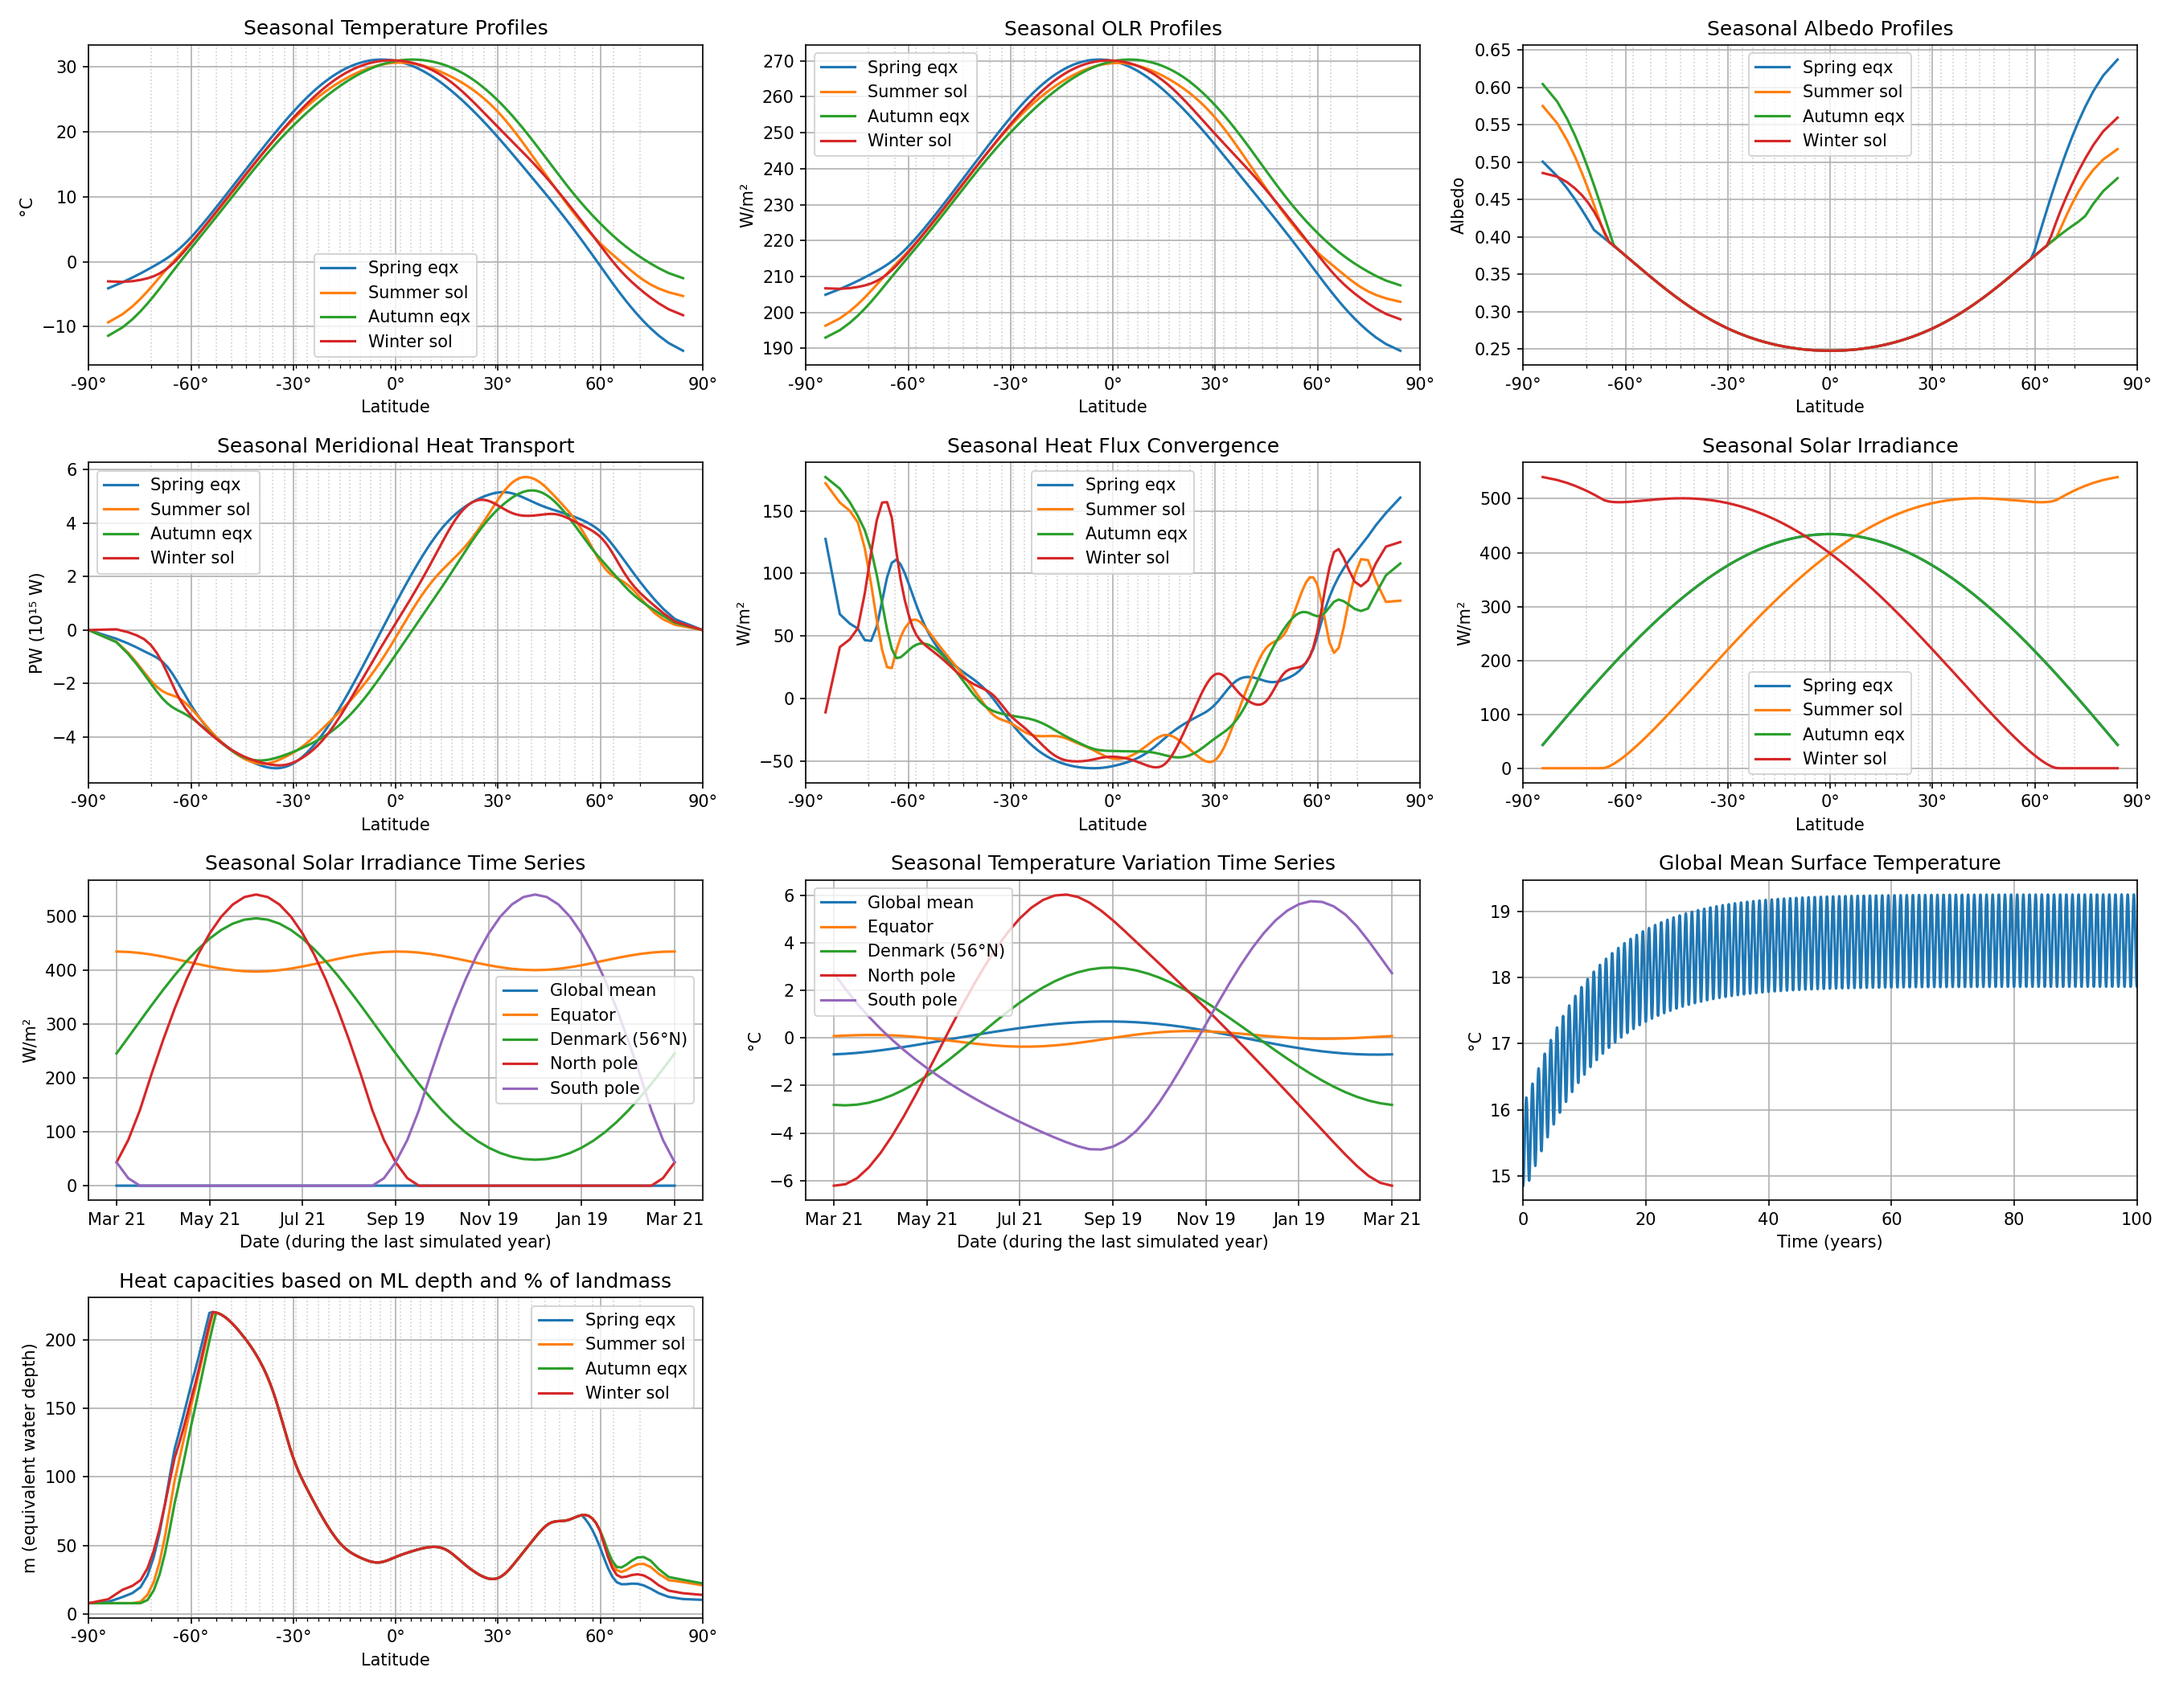
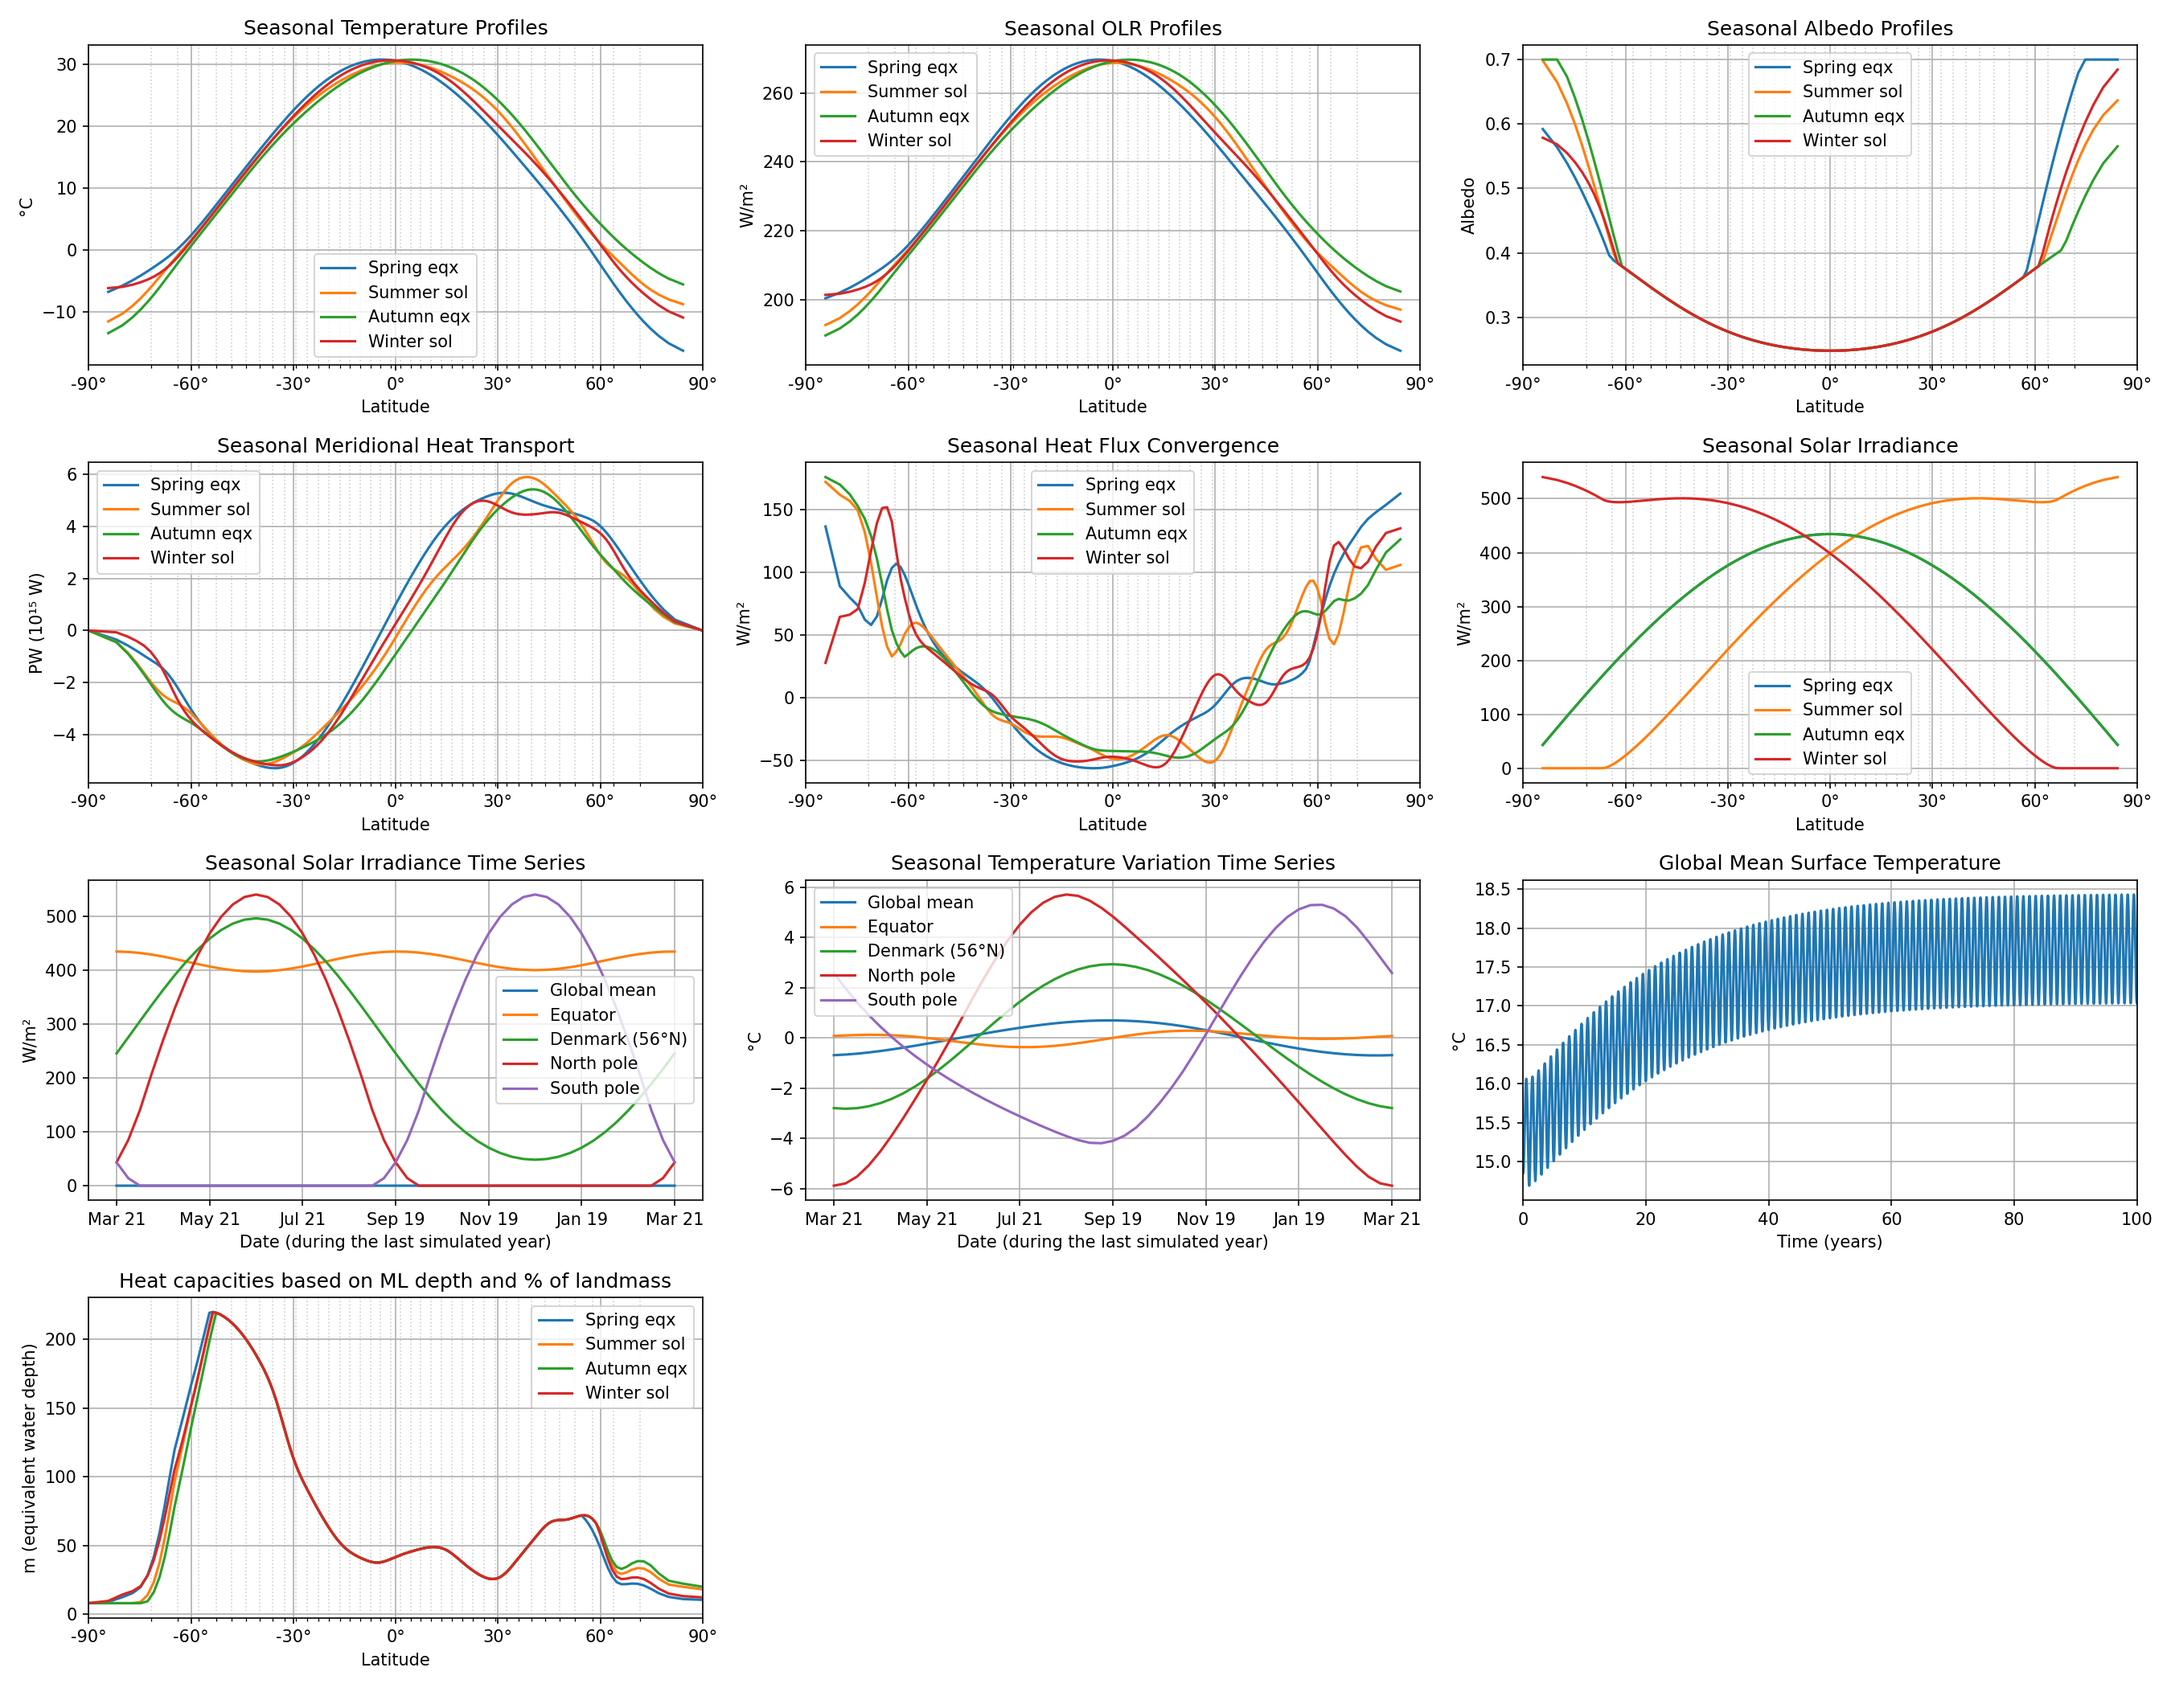
Made possible to have varying diffusion

diff --git a/Programfiler/physics.py b/Programfiler/physics.py
@@ -83,9 +83,9 @@ def albedo_from_T(T, x, k1):
     return np.minimum(alpha, 0.7)
 
 @Input
-def diffusion_from_T(T, D0, k2):
-    # T er i default mode T.mean()
-    return D0 * max(0.5, 1.0 + k2 * (T - T00))
+def diffusion_from_T(T, D0, k2, mean=True):
+    T = T.mean() if mean else T
+    return D0 * np.maximum(0.5, 1.0 + k2 * (T - T00))
 
 @Input
 def deltaT_of_Ts(Ts, k3):
@@ -225,6 +225,7 @@ def build_diffusion_tridiag(x, D):
 
     # half-point weights (length nx-1)
     x_half = 0.5 * (x[:-1] + x[1:])
+    D = 0.5 * (D[:-1] + D[1:]) if isinstance(D, np.ndarray) else D
     w_half = D * (1.0 - x_half**2) # diffusivity at cell borders
     
     # interior contributions
@@ -248,6 +249,7 @@ def meridional_transport_PW(T, x, D):
     # dTdx = np.gradient(T, x)
     dTdx = np.r_[0, (T[1:] - T[:-1]) / (x[1] - x[0]), 0]
     x_borders = np.r_[-1, (x[1:] + x[:-1]) / 2, 1]
+    D = np.r_[D[0], (D[1:] + D[:-1]) / 2, D[-1]] if isinstance(D, np.ndarray) else D # Not entirely correct but ok approximation
     flux = - D * (1.0 - x_borders**2) * dTdx                    # W/m² (per-area heat flux)
     MHTrans = 2.0 * np.pi * R_EARTH**2 * flux                 # W (zonal integral around latitude circle)
     return np.arcsin(x_borders) / np.pi * 180, MHTrans / 1e15                            # PW

diff --git a/Programfiler/outputs.py b/Programfiler/outputs.py
@@ -188,7 +188,7 @@ class DefaultOutput(OutPut):
         alpha = funcs['albedo_from_T'](T, x, k1=params['k1'], model=model, i=i)
         dTloc = funcs['deltaT_of_Ts'](T, k3=params['k3'], model=model, i=i)
         olr = phys.SIGMA * (T - dTloc)**4
-        D = funcs["diffusion_from_T"](T.mean(), params['D0'], params['k2'], model=model, i=i)
+        D = funcs["diffusion_from_T"](T, params['D0'], params['k2'], model=model, i=i)
         aL, bL, cL = funcs['build_diffusion_tridiag'](x, D)
         conv = funcs['apply_L_to_T'](aL, bL, cL, T)     # W/m² (convergence)
         MHTrans_PW = funcs['meridional_transport_PW'](T, x, D, model=model, i=i) # PW = 10^15 W

diff --git a/Programfiler/model.py b/Programfiler/model.py
@@ -54,7 +54,7 @@ class ClimateModel:
         rad_term = absorbed - olr + params['F'] * (i >= self.ctrl_nsteps) # Only apply forcing after control period
 
         # Diffusivity depends on global mean temperature
-        D = funcs["diffusion_from_T"](T.mean(), params['D0'], params['k2'], model=self, i=i)
+        D = funcs["diffusion_from_T"](T, params['D0'], params['k2'], model=self, i=i)
 
         # Build L and do Crank–Nicolson step
         aL, bL, cL = funcs['build_diffusion_tridiag'](x, D)
